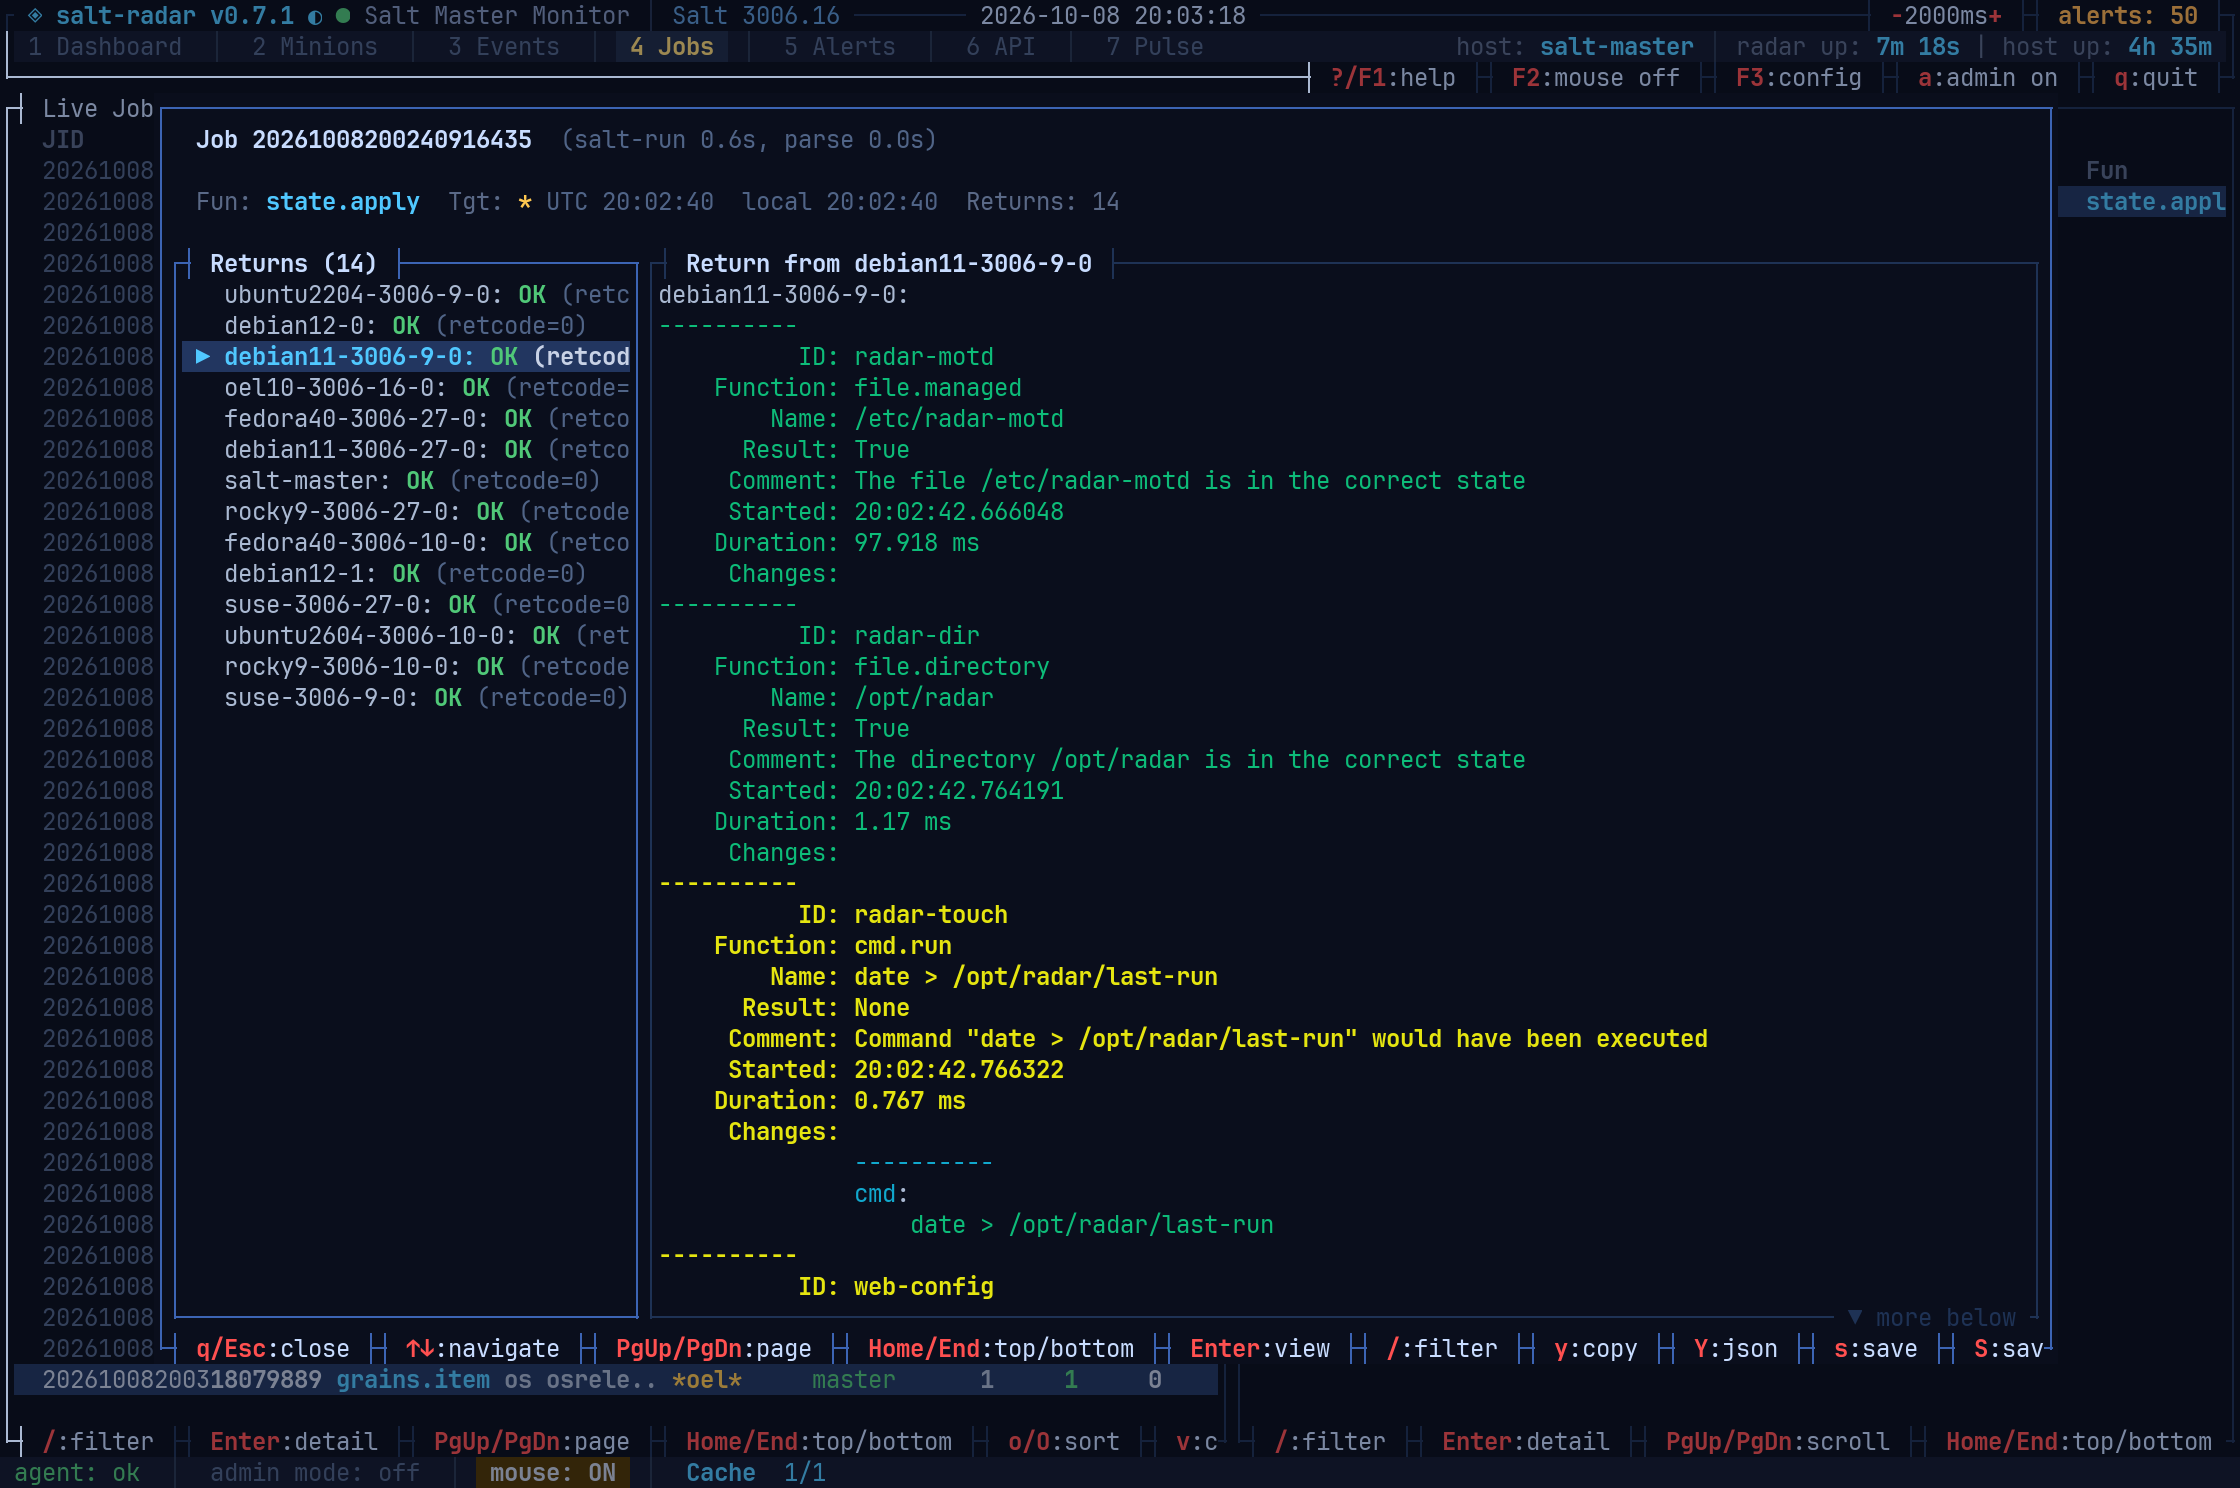
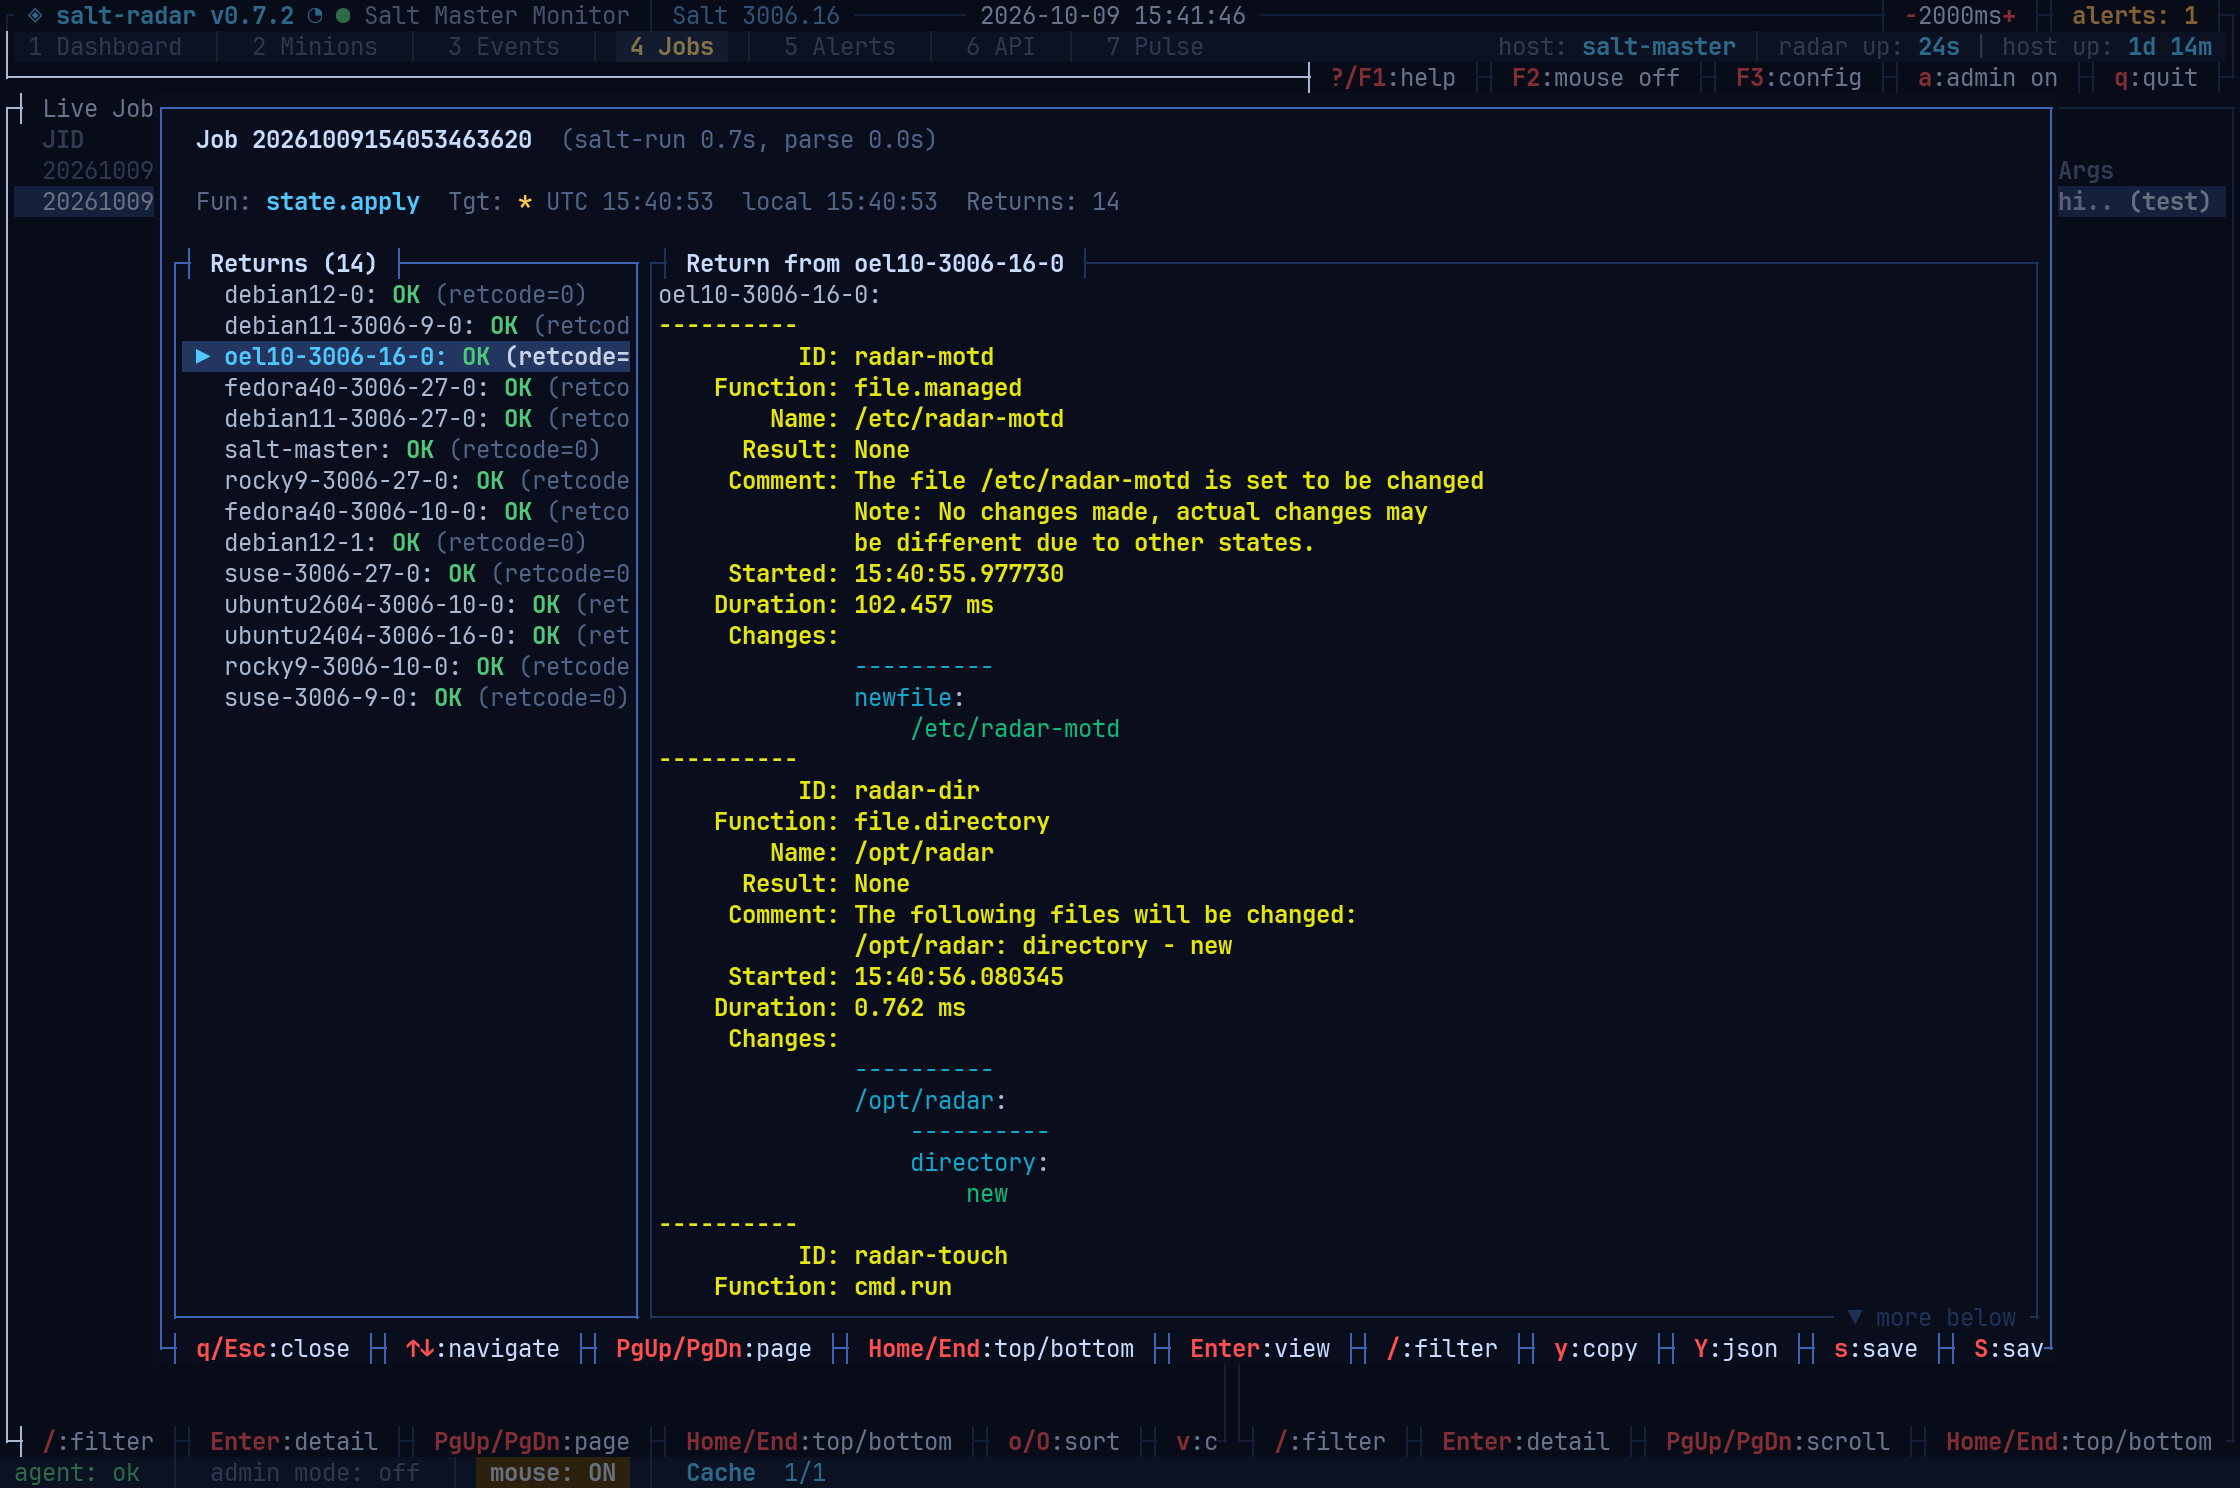
docs: document the save dialog and json saves, refresh job detail shot
Date the v0.7.2 changelog entry for its re-release.

diff --git a/CHANGELOG.md b/CHANGELOG.md
@@ -7,7 +7,7 @@ and this project adheres to [Semantic Versioning](https://semver.org/spec/v2.0.0
 
 ## [Unreleased]
 
-## [0.7.2] - 2026-10-08
+## [0.7.2] - 2026-10-09
 
 ### Added
 
@@ -17,6 +17,9 @@ and this project adheres to [Semantic Versioning](https://semver.org/spec/v2.0.0
 
 - Finish a fleet scan as soon as every expected minion has answered, instead of always waiting out its 60-second timeout (which still marks minions that never answer as timed out) (#116)
 - Keep the Live Jobs cursor on the newest job as new jobs arrive, like the Events tab: moving it elsewhere stops following and `End` resumes it; with a sort column active the cursor stays put (#117)
+- Dim the screen behind an open popup a little more strongly, so the popup stands out more
+- Show the save-to-file prompt (`s`/`S` in a popup) as its own small dialog on top of the popup — directory, file name and the "file exists" warning — instead of a line in the status bar, which the dimmed backdrop washed out
+- Propose a `.json` file name when saving JSON — Job Detail `S`/`A`, and Event Detail `S` in raw view — instead of `.txt` for everything
 
 ## [0.7.1] - 2026-10-08
 

diff --git a/README.md b/README.md
@@ -197,7 +197,7 @@ Shown only once salt-api's `/stats` is reachable (see Dashboard above for the `c
 
 ### Clipboard and save-to-file
 
-Every popup with copy-to-clipboard (`y` / `Y`) also supports saving the same content to a file (`s` / `S`) — the app proposes a filename from what's being saved, lets you edit it, and warns before overwriting an existing file. Default save directory is `~` (the launching user's home), configurable as `save_dir` under `[export]` (or live, in the Config Editor).
+Every popup with copy-to-clipboard (`y` / `Y`) also supports saving the same content to a file (`s` / `S`) — a small dialog opens on top of the popup, proposing a filename from what's being saved; edit it, `Enter` saves (warning first if the file already exists), `Esc` cancels. JSON saves (`S`, and `A` for all of a job's returns) get a `.json` name, text saves `.txt`. Default save directory is `~` (the launching user's home), configurable as `save_dir` under `[export]` (or live, in the Config Editor).
 
 Copy-to-clipboard (`y` / `Y`) uses two methods:
 
